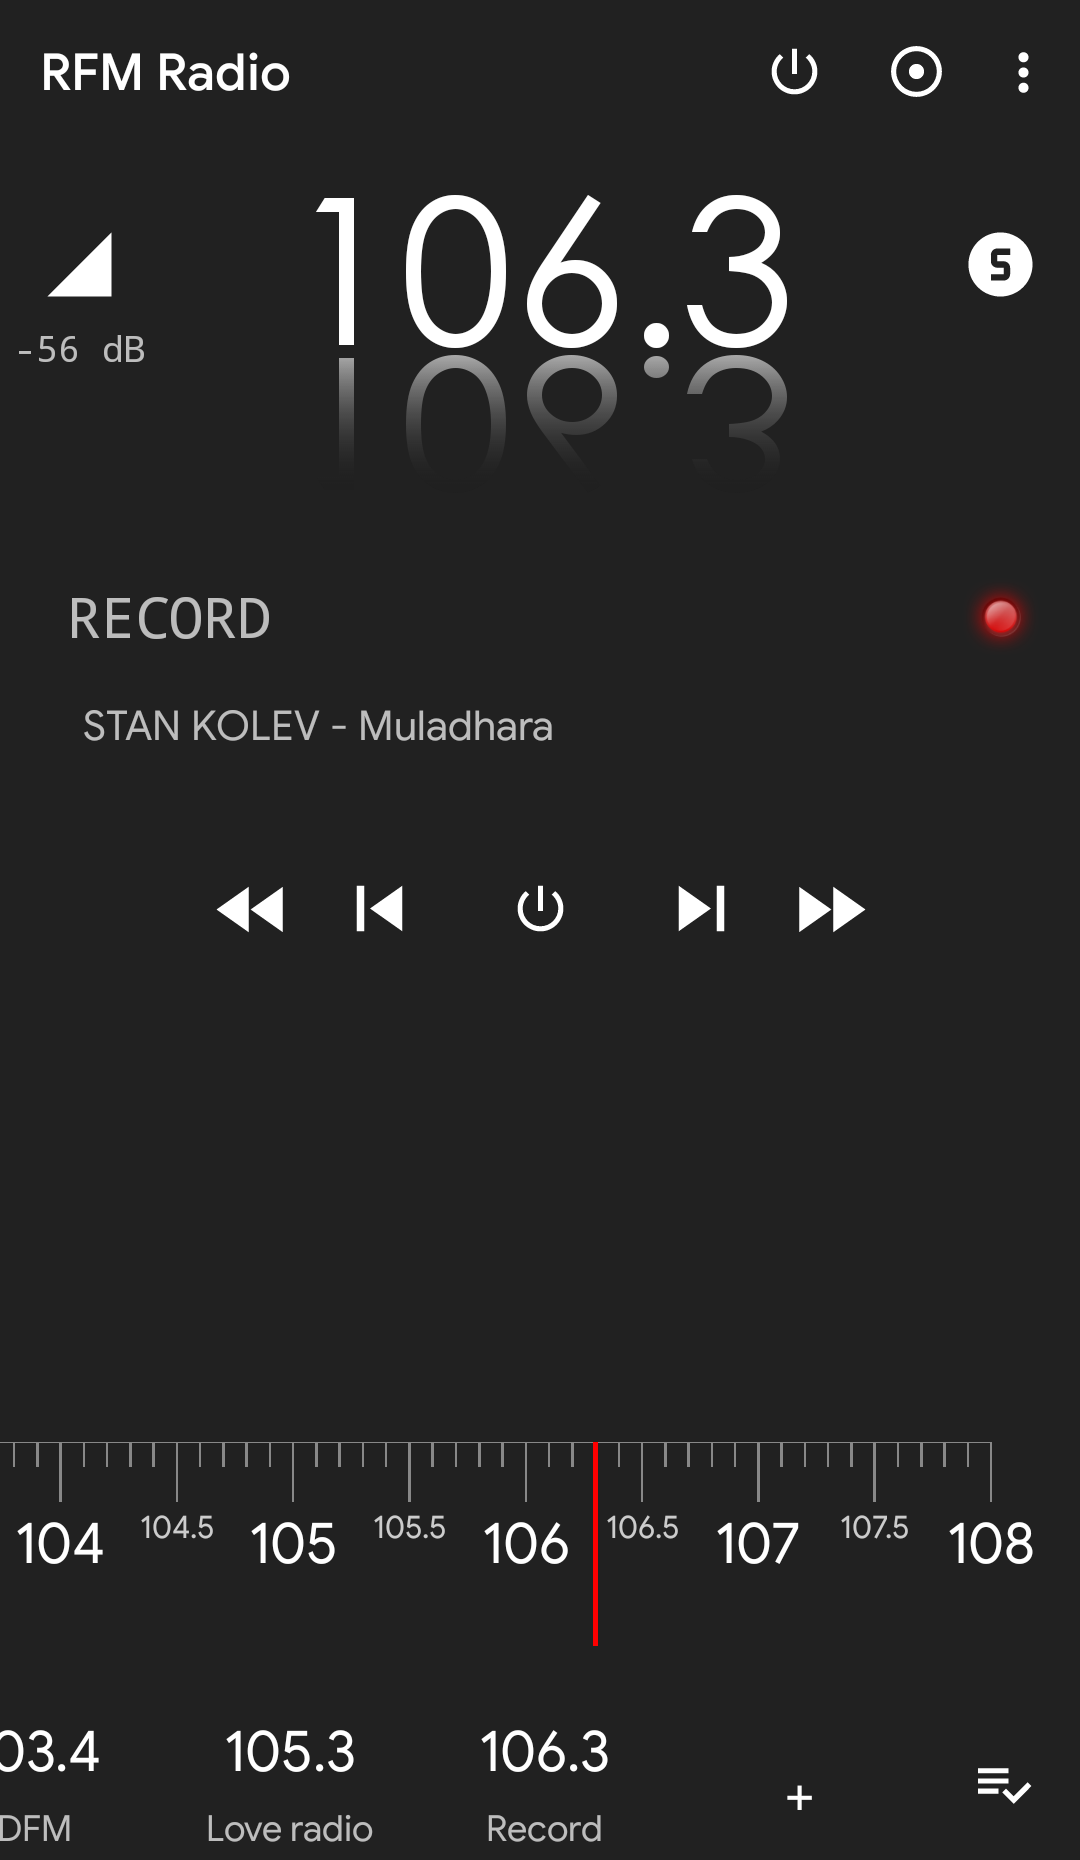
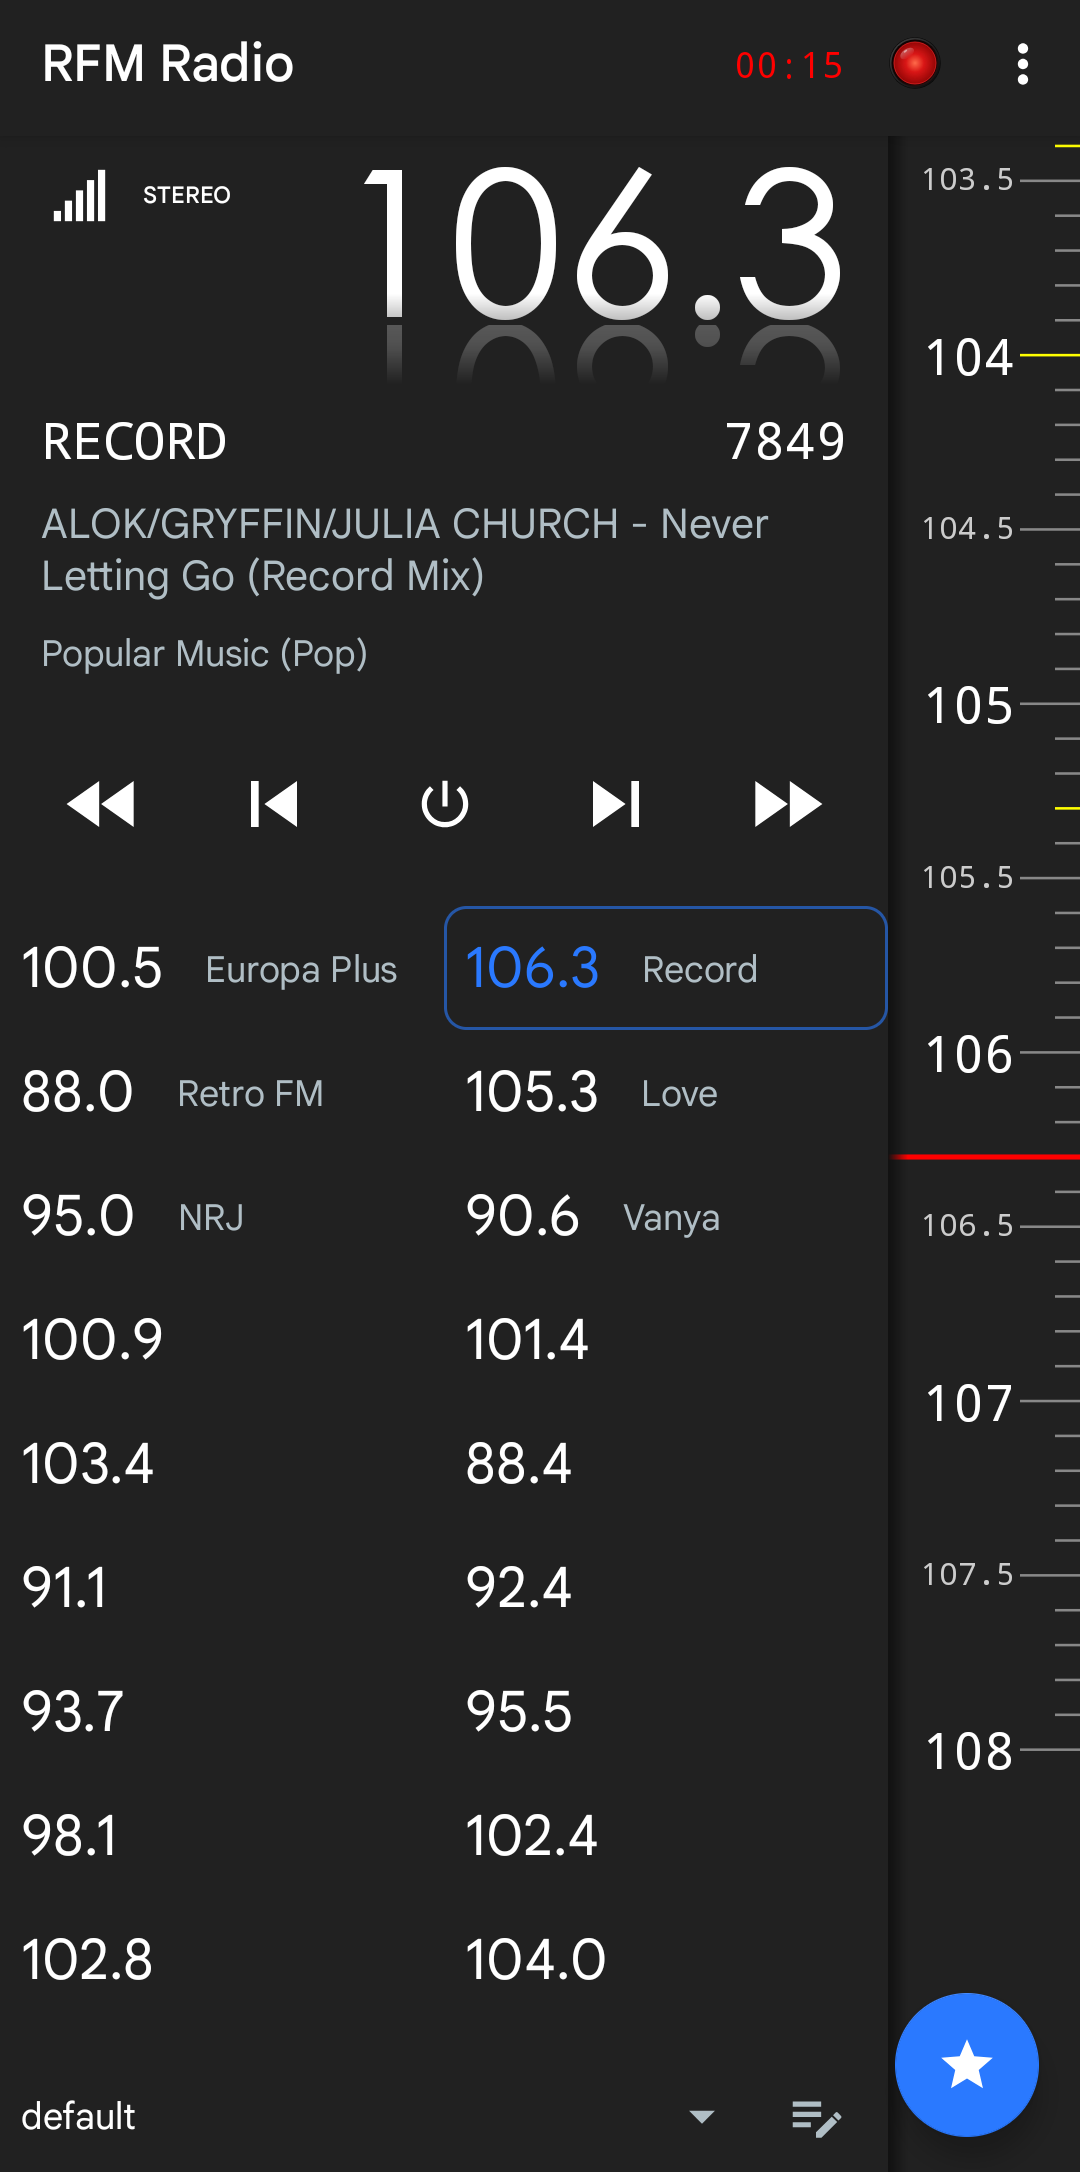
Update screenshots and fastlane metadata

diff --git a/README.md b/README.md
@@ -50,7 +50,7 @@ If the option is enabled, then with the "Enable RDS" option enabled, the Program
 
 ## Screenshots
 
-<img src="images/main.png" width="33%" alt="Main screen"/><img src="images/settings.png" width="33%" alt="Settings screen"/><img src="images/favorites.png" width="33%" alt="Favorites screen"/>
+<img src="fastlane/metadata/android/en-US/images/phoneScreenshots/1.png" width="33%" alt="Main screen"/><img src="fastlane/metadata/android/en-US/images/phoneScreenshots/2.png" width="33%" alt="Searching"/><img src="fastlane/metadata/android/en-US/images/phoneScreenshots/3.png" width="33%" alt="Settings screen"/>
 
 ## Building
 
